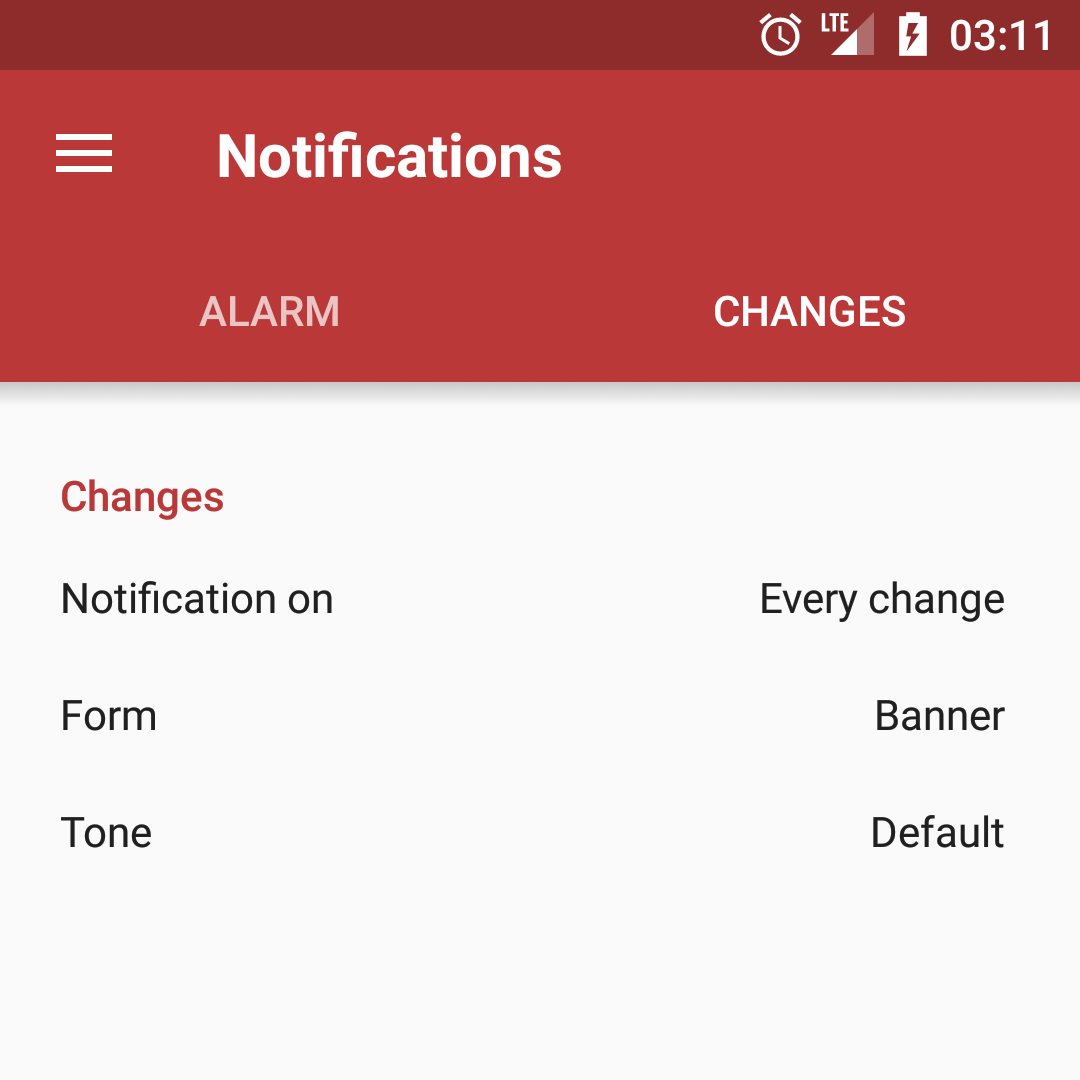
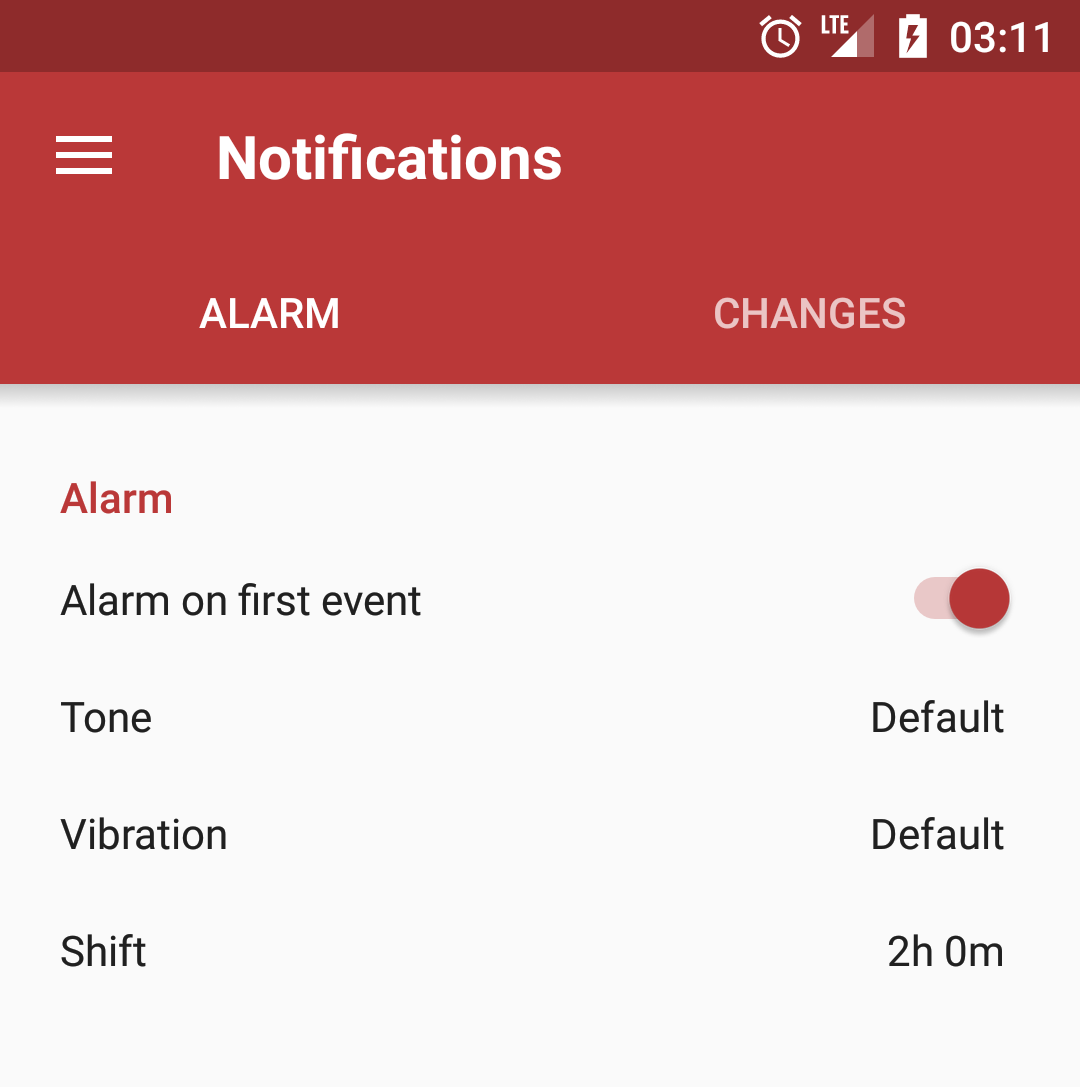
Implement new screenshots

diff --git a/index.html b/index.html
@@ -149,26 +149,24 @@
                   </div>
                </div>
             </div>
-         </div>
-         <div class="content-box content-box--solid content-box--solid-accent">
-            <div class="content-box__body">
-               <div class="grid">
-                  <div class="grid-3rd">
-                     <div class="image-block__mask js-grow-image" target="alarm">
-                        <img src="img/images/screenshot_alarm_square.png" class="image-block">
-                     </div>
-                     <h6 class="description">Wecker</h6>
-                     <p class="content-box__text">Du schaust jeden Abend, wann du morgen raus musst? Entspann dich, wir sagen dir schon rechtzeitig bescheid.</p>
-                  </div>
-                  <div class="grid-3rd">
-                     <div class="image-block__mask js-grow-image" target="dark">
-                        <img src="img/images/screenshot_dark_square.png" class="image-block">
-                     </div>
-                     <h6 class="description">Material Design</h6>
-                     <p class="content-box__text">Rapla ist zweckmäßig.<br>Wir auch - und sogar noch schön!</p>
-                  </div>
-               </div>
-            </div>
+						<div class="content-box__body">
+							 <div class="grid">
+									<div class="grid-3rd">
+										 <div class="image-block__mask js-grow-image" target="alarm">
+												<img src="img/images/screenshot_alarm_square.png" class="image-block">
+										 </div>
+										 <h6 class="description">Wecker</h6>
+										 <p class="content-box__text">Du schaust jeden Abend, wann du morgen raus musst? Entspann dich, wir sagen dir schon rechtzeitig bescheid.</p>
+									</div>
+									<div class="grid-3rd">
+										 <div class="image-block__mask js-grow-image" target="dark">
+												<img src="img/images/screenshot_material_square.png" class="image-block">
+										 </div>
+										 <h6 class="description">Material Design</h6>
+										 <p class="content-box__text">Rapla ist zweckmäßig.<br>Wir auch - und sogar noch schön!</p>
+									</div>
+							 </div>
+						</div>
          </div>
          <div id="download" class="content-box content-box--solid content-box--solid-standard">
             <h2 class="content-box__header">Was willst du haben?</h2>
@@ -301,7 +299,7 @@
       </div>
       <div class="modal grid" name="dark">
          <div class="grid-3rd">
-            <img src="img/images/screenshot_dark.png">
+            <img src="img/images/screenshot_material.png">
          </div>
          <div class="grid-3rd">
             <h6 class="description">Material Design</h6>
